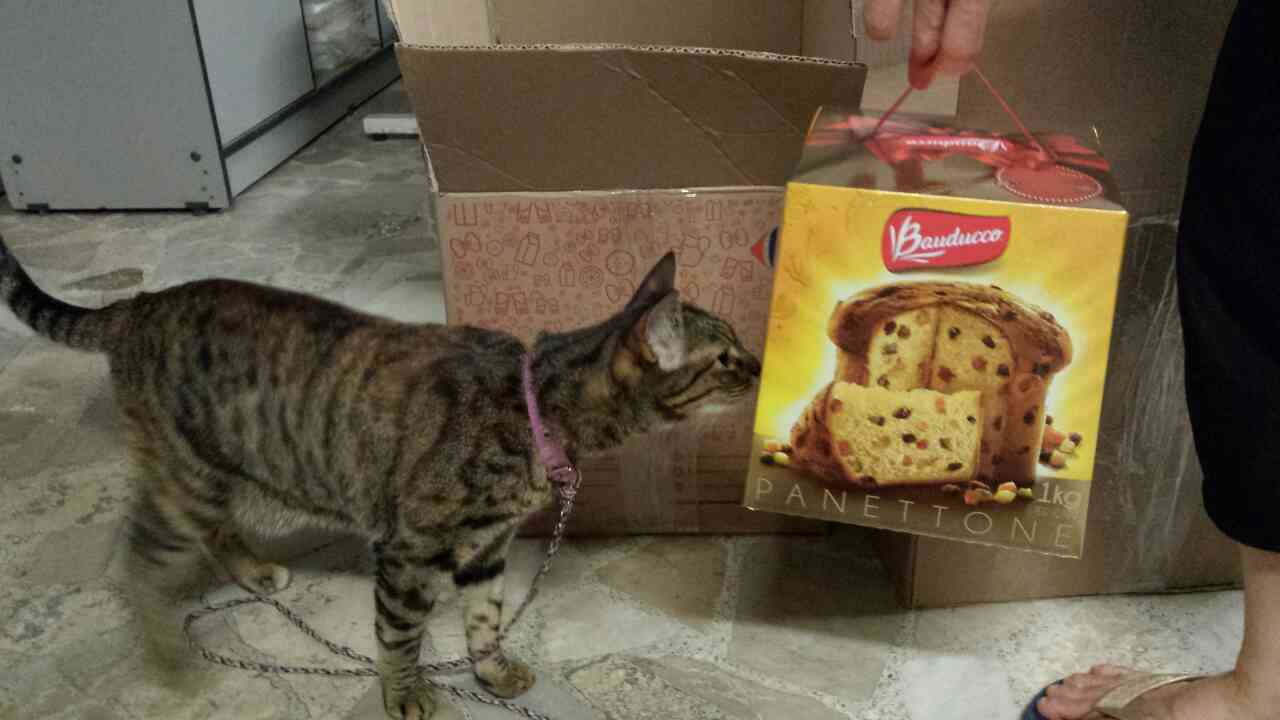
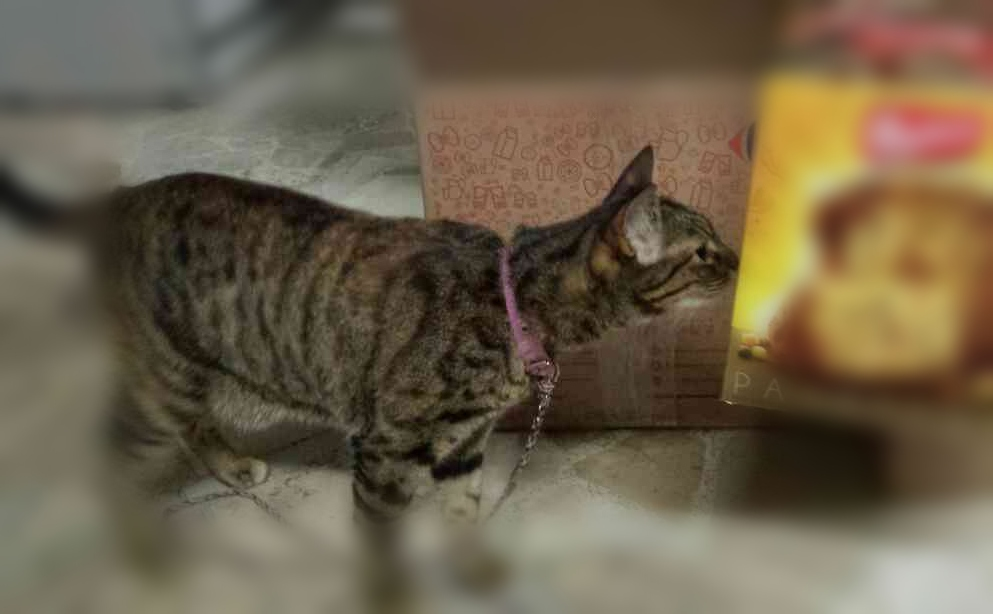
Intro to Mia

diff --git a/allphotos.html b/allphotos.html
@@ -17,7 +17,12 @@
   <body>
     <h1>Mia's secret</h1>
     <div>
-      <img src="pics/EV1.jpg" alt="Mia" title="Mia" />
+      <img
+        src="pics/Mia-panetone.jpg"
+        alt="Mia"
+        title="Mia loves sniffing panetones"
+        class="Mia-pic"
+      />
     </div>
     <div class="back-link">
       <button class="button-back">
@@ -26,16 +31,22 @@
         >
       </button>
       <div class="credits">
-        Hi! This is<a
+        Hi! I am Mia,
+        <a
           href="https://www.linkedin.com/in/melissa-tseng-coder"
           target="_blank"
           alt="link to Melissa's LinkedIn profile"
           title="link to Melissa's LinkedIn profile"
-          >Melissa</a
-        >. I originally built this page in a different format, as a virtual Bday
-        card for friends & family, and they loved it without caring much about
-        my beginner programmer skills😁 Thanks for understanding that the
-        picture above belongs to me and my family and its commercial use is
+          >Melissa'</a
+        >s cat. I love the smell of a Brazilian panettone, but I'm not allowed
+        to try it because it's not good for me. In fact my favorite food is corn
+        but Melissa could not get a good picture of me eating corn, I looked
+        more like a scary ocelot. In real life I'm pretty sweet with who cares
+        about me but I can be fierce as an ocelot. This page was originally
+        built in a different format, in the form of a virtual Bday card for
+        Melissa's friends & family, and they loved it without caring much about
+        her beginner programmer skills😁 Thanks for understanding that my
+        picture above belongs to Melissa & her family and its commercial use is
         strictly prohibited 😎
       </div>
     </div>

diff --git a/grid.html b/grid.html
@@ -48,9 +48,10 @@
         alt="link to picture source"
         title="link to source of picture on Pexel"
         >Pexel</a
-      >, as well as every other picture in this game: corn, sardine, cracker,
-      watercress, squash, eggs, feather, cardboard box except for the secret
-      picture on the next page 😎
+      >, as well as every other picture in this game:
+      <a href="https://www.pexels.com/photo/yellow-corn-547263/">corn</a> ,
+      sardine, cracker, watercress, squash, eggs, feather, cardboard box except
+      for the secret picture on the next page 😎
     </div>
 
     <script src="src/app.js"></script>

diff --git a/src/styles.css b/src/styles.css
@@ -160,3 +160,7 @@ img {
   height: auto;
   border-radius: 10px;
 }
+.Mia-pic {
+  display: block;
+  margin: 0 auto;
+}
